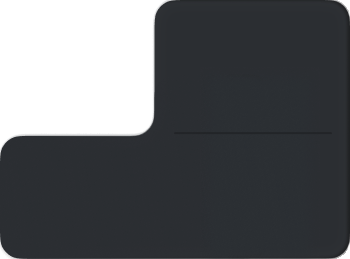
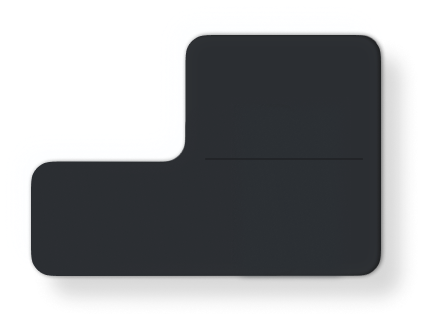
fix dohod

Changed region(s): [[0.0, 0.0, 1.0, 1.0], [0.4286, 0.4633, 0.4571, 0.4942]]

diff --git a/src/pages/ProfilePage/ProfilePage.js b/src/pages/ProfilePage/ProfilePage.js
@@ -468,9 +468,12 @@ const ProfilePage = () => {
 
                         {/* open */}
                         <article className='block-kompetencii-open' style={{display: showKompet ? 'block' : 'none'}}> 
-                            <div className='rec1'></div>
+                            <div className='rectangle-kompeten'></div>
+                            <div className='rectangle-kompeten2'></div>
+                            <div className='rectangle-kompeten3'></div>
+                            {/* <div className='rec1'></div>
                             <div className='rec2'></div>
-                            <div className='rec3'></div>
+                            <div className='rec3'></div> */}
                             <div className='kompetencii-title' onClick={clickKompeten}>
                                 <p className='text-kompetencii' >Компетенции</p>
                                 <img className='vector-icon' src={VectorUp} alt=''/>

diff --git a/src/pages/ProfilePage/ProfilePage.css b/src/pages/ProfilePage/ProfilePage.css
@@ -471,8 +471,8 @@ input[id="cb1"] {
     position: absolute;
     width: 50%;
     z-index: 0;
-    right: 0;
-    top: 275px;
+    right: 2px;
+    top: 274px;
 }
 
 .block-dohod2 {
@@ -481,7 +481,7 @@ input[id="cb1"] {
     width: 100%;
     height: 115px;
     z-index: 0;
-    margin-top: -110px;
+    margin-top: -145px;
 }
 
 .history-title {
@@ -527,11 +527,11 @@ input[id="cb1"] {
 }
 
 .dohod-open {
-    width: 100%;
+    width: 120%;
     position: relative;
-    margin-top: -115px;
-    height: 240px;
-    /* margin-left: -5px; */
+    margin-top: -146px;
+    height: 298px;
+    margin-left: -25px;
 }
 
 .wrap-dohod {
